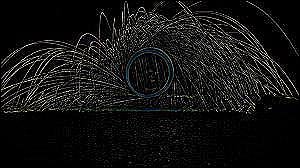
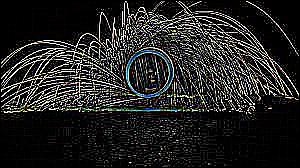
unsharp

diff --git a/filters.py b/filters.py
@@ -4,9 +4,9 @@ import math as Math
 def laplacian(imagem):
     #define o kernel 3x3 da imagem
     kernel = [[], [], []]
-    kernel[0] = [0, -1, 0]
-    kernel[1] = [-1, 4, -1] 
-    kernel[2] = [0, -1, 0]
+    kernel[0] = [-1, -1, -1]
+    kernel[1] = [-1, 8, -1] 
+    kernel[2] = [-1, -1, -1]
     #Prepara a criação de uma imagem de saída.
     img_alterada = Image.new('RGB', imagem.size)
     for x in range(1, imagem.width - 1):
@@ -82,6 +82,22 @@ def gaussian_smooth(imagem, size, sigma):
                 (x, y), value=(int(sum[0] / weight), int(sum[1] / weight), int(sum[2] / weight))
             )
     return img_alterada
+
+
+def unsharp(imagem, k):
+    #Prepara a criação de uma imagem de saída.
+    img_alterada = Image.new('RGB', imagem.size)
+    img_alterada_smooth = gaussian_smooth(imagem, 5, 2)
+    for x in range(1, imagem.width - 1):
+        for y in range(1, imagem.height - 1):
+            unsharp = [0, 0, 0]
+            unsharp[0] = imagem.getpixel((x, y))[0] - k * (img_alterada_smooth.getpixel((x, y))[0])
+            unsharp[1] = imagem.getpixel((x, y))[1] - k * (img_alterada_smooth.getpixel((x, y))[1])
+            unsharp[2] = imagem.getpixel((x, y))[2] - k * (img_alterada_smooth.getpixel((x, y))[2])
+            img_alterada.putpixel(
+                (x, y), value=(int(unsharp[0] / k), int(unsharp[1] / k), int(unsharp[2] / k))
+            )
+    return img_alterada
     
 
 exemplos = []
@@ -94,10 +110,13 @@ img_alteradas.append(laplacian(exemplos[0]))
 exemplos.append(Image.open("exemplo2.jpg")) 
 img_alteradas.append(sharpening(exemplos[1]))
 
-sigma = 2
+sigma = 1
 size = 5
 exemplos.append(Image.open("exemplo3.jpg")) 
-img_alteradas.append(laplacian(gaussian_smooth(exemplos[len(exemplos) - 1], size, sigma)))
+img_alteradas.append(laplacian(gaussian_smooth(exemplos[2], size, sigma)))
+
+exemplos.append(Image.open("exemplo4.jpg")) 
+img_alteradas.append(unsharp(exemplos[3], k=0.7))
 
 #Monta uma imagem de resultado
 for x in range(0, len(exemplos)):
